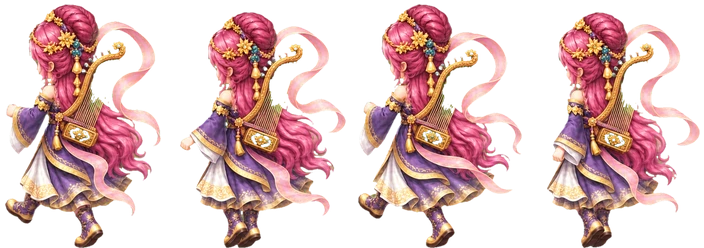
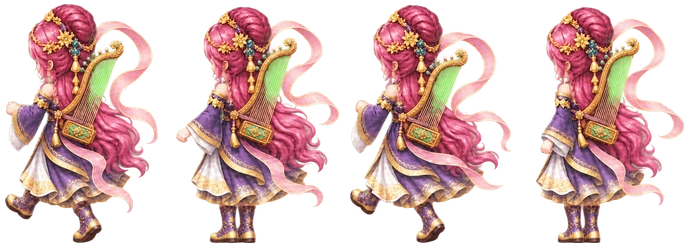
道家女背面行走表重绘站立帧：靴子平放，不再踮脚
Claude-Session: https://claude.ai/code/session_01Ug7SvjxsTvGWtWQTYLfcGg

diff --git a/js/assets.js b/js/assets.js
@@ -476,9 +476,9 @@ window.ASSETS = {
    51.24558587479936
   ],
   "walk_b_dao_ty": [
-   87.0,
-   124.0,
-   46.22504230118444
+   85.0,
+   120.5,
+   45.28936521022259
   ],
   "walk_f_dao_qm": [
    97.0,
@@ -486,9 +486,9 @@ window.ASSETS = {
    51.42605915267786
   ],
   "walk_b_dao_qm": [
-   93.0,
-   120.5,
-   49.300000000000004
+   92.0,
+   120.0,
+   48.7287853577371
   ],
   "b_dao_ty": [
    114.5,
@@ -560,9 +560,9 @@ window.ASSETS = {
    51.97423510466989
   ],
   "walk_b_dao_dz": [
-   88.0,
-   124.0,
-   46.08791208791209
+   86.0,
+   121.5,
+   45.396694214876035
   ],
   "b_dao_dz": [
    93.0,
